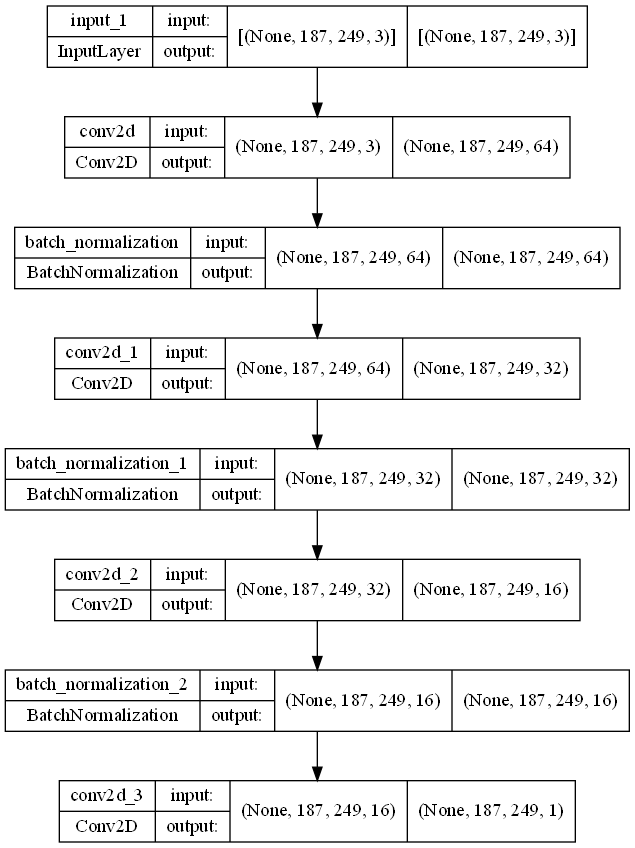
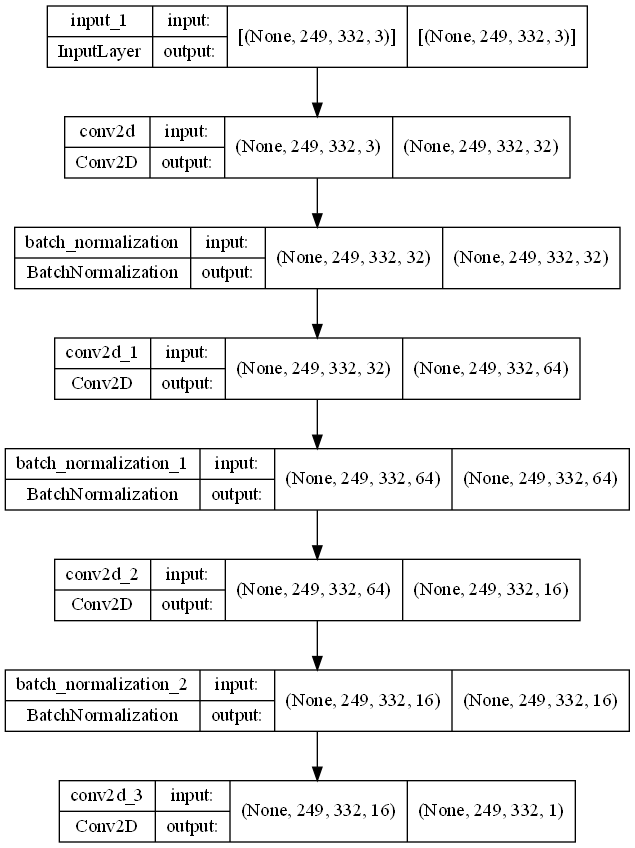
Stable params model 75.7%

diff --git a/neural_network_training.py b/neural_network_training.py
@@ -3,6 +3,7 @@ import time
 
 import tensorflow as tf
 from tensorflow import keras
+import datetime
 
 import image_handler as handler
 from droplet_labels import droplet_labels
@@ -18,23 +19,23 @@ def generate_model(image_shape: tuple) -> keras.Model:
         kernel_initializer='glorot_normal',
         kernel_regularizer=None
     )
-    # Layer 1 on the network, expand to 16 dimensions and normalize output
-    conv1 = keras.layers.Conv2D(filters=64, kernel_size=4, **kwargs)(inputs)
+    # Layer 1 on the network
+    conv1 = keras.layers.Conv2D(filters=32, kernel_size=4, **kwargs)(inputs)
     conv1 = keras.layers.BatchNormalization(momentum=0.99)(conv1)
 
-    # Layer 2 on the network, expand to 32 dimensions and normalize output
-    conv2 = keras.layers.Conv2D(filters=32, kernel_size=4, **kwargs)(conv1)
+    # Layer 2 on the network
+    conv2 = keras.layers.Conv2D(filters=64, kernel_size=4, **kwargs)(conv1)
     conv2 = keras.layers.BatchNormalization(momentum=0.99)(conv2)
 
-    # Layer 3 on the network, contract to 16 dimensions and normalize output
+    # Layer 3 on the network
     conv3 = keras.layers.Conv2D(filters=16, kernel_size=4, **kwargs)(conv2)
     conv3 = keras.layers.BatchNormalization(momentum=0.99)(conv3)
 
-    # Layer 4 on the network, contract to 1 dimension
+    # Layer 4 on the network
     outputs = keras.layers.Conv2D(filters=1, kernel_size=4, **kwargs)(conv3)
 
     keras_model = keras.Model(inputs=inputs, outputs=outputs)
-    keras_model.compile(optimizer="Adam", loss="mean_squared_error")
+    keras_model.compile(optimizer="adam", loss="mean_squared_error")
 
     return keras_model
 
@@ -49,10 +50,8 @@ if __name__ == "__main__":
         folder=DATA_FOLDER,
         num_images=len(droplet_labels),
         circle_labels=droplet_labels,
-        scale_percent=30
+        scale_percent=40
     )
-
-    image_shape = (img_batch.shape[1], img_batch.shape[2], 3)
 
     print(f"Loaded image shape = {img_batch.shape}, Label shape = {label_batch.shape}")
 
@@ -68,14 +67,23 @@ if __name__ == "__main__":
             # Memory growth must be set before GPUs have been initialized
             print(e)
 
-
     print(f"Generating model")
-    model = generate_model(image_shape)
+    model = generate_model(image_shape=(img_batch.shape[1], img_batch.shape[2], 3))
     print(model.summary())
+
+    log_dir = "logs/fit/" + datetime.datetime.now().strftime("%Y%m%d-%H%M%S")
+    tensorboard_callback = tf.keras.callbacks.TensorBoard(log_dir=log_dir, histogram_freq=1)
 
     t1 = time.time()
     print(f"Starting model fit...")
-    model.fit(img_batch, label_batch, batch_size=1, epochs=100, verbose=1)
+    model.fit(
+        img_batch,
+        label_batch,
+        batch_size=1,
+        epochs=60,
+        verbose=1,
+        callbacks=[tensorboard_callback]
+    )
     print(f"Time taken to fit = {int(time.time() - t1)} s")
 
     model_save_path = os.path.join("models", MODEL_NAME)
